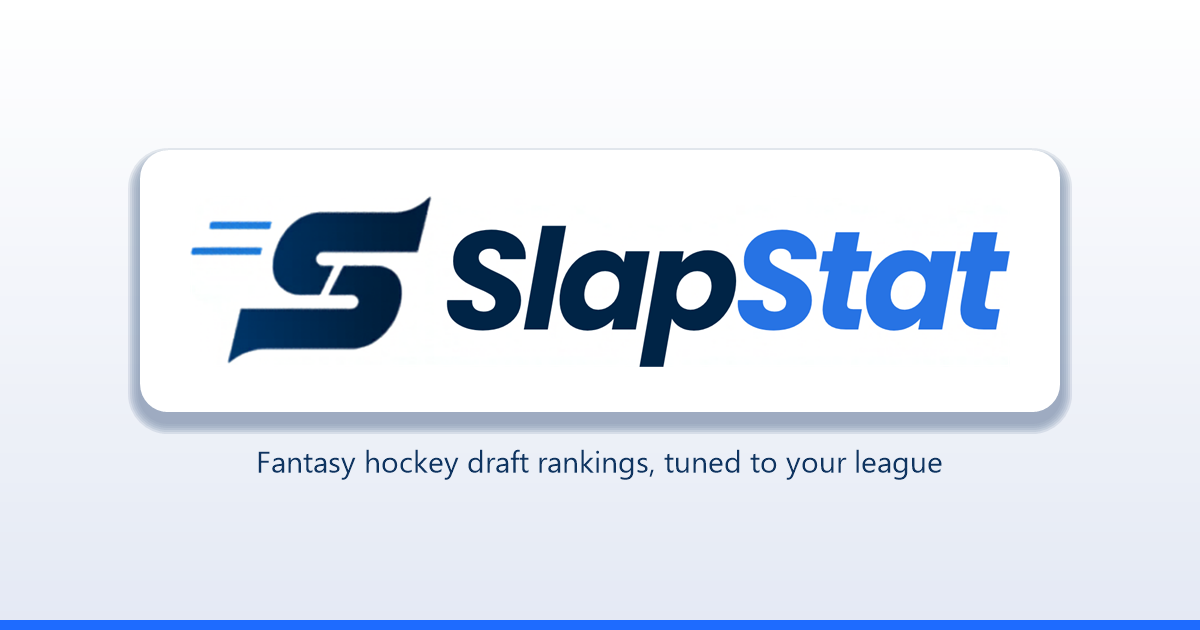
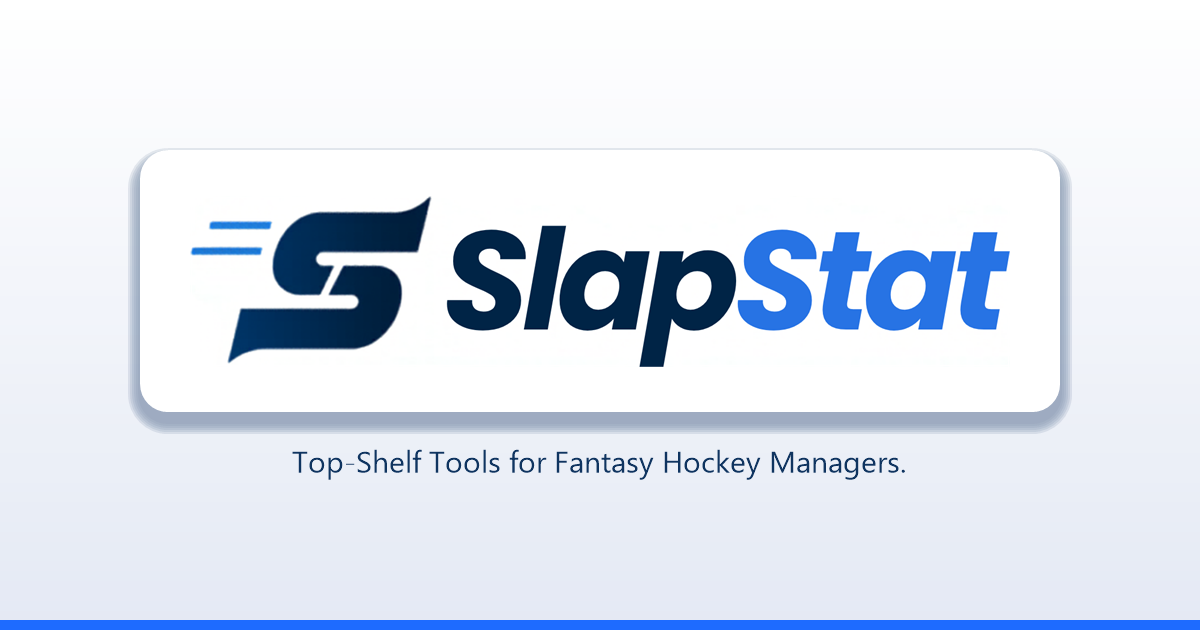
feat: adopt "Top-Shelf Tools for Fantasy Hockey Managers" as the slogan
Broaden the positioning away from draft-only. The site is a general
fantasy hockey tool, not just draft rankings, so:
- landing footer slogan: "Fantasy Hockey, done right." -> the new slogan.
- index.html title + meta description + OG/Twitter copy: general
  "top-shelf tools ... rankings and projections tuned to your league's
  scoring settings", no longer draft-specific.
- og-image.png: regenerated with the new tagline.

Changed region(s): [[0.2158, 0.6937, 0.8017, 0.754]]

diff --git a/src/index.html b/src/index.html
@@ -2,14 +2,14 @@
 <html lang="en">
   <head>
     <meta charset="utf-8" />
-    <title>SlapStat - Fantasy Hockey Draft Rankings</title>
+    <title>SlapStat - Top-Shelf Tools for Fantasy Hockey Managers</title>
     <base href="/" />
     <meta name="viewport" content="width=device-width, initial-scale=1" />
     <meta name="theme-color" content="#0F3460" />
 
     <meta
       name="description"
-      content="SlapStat ranks NHL players for your fantasy hockey draft based on your league's scoring settings. Connect your Yahoo league and draft smarter."
+      content="Top-shelf tools for fantasy hockey managers: rankings and projections tuned to your league's scoring settings. Connect your Yahoo league and play smarter."
     />
     <link rel="canonical" href="https://slapstat.com/" />
 
@@ -17,22 +17,25 @@
     <meta property="og:type" content="website" />
     <meta property="og:site_name" content="SlapStat" />
     <meta property="og:url" content="https://slapstat.com/" />
-    <meta property="og:title" content="SlapStat - Fantasy Hockey Draft Rankings" />
+    <meta property="og:title" content="SlapStat - Top-Shelf Tools for Fantasy Hockey Managers" />
     <meta
       property="og:description"
-      content="Rank NHL players for your fantasy hockey draft based on your league's scoring settings. Connect your Yahoo league and draft smarter."
+      content="Top-shelf tools for fantasy hockey managers: rankings and projections tuned to your league's scoring settings. Connect your Yahoo league and play smarter."
     />
     <meta property="og:image" content="https://slapstat.com/og-image.png" />
     <meta property="og:image:width" content="1200" />
     <meta property="og:image:height" content="630" />
-    <meta property="og:image:alt" content="SlapStat - fantasy hockey draft rankings" />
+    <meta
+      property="og:image:alt"
+      content="SlapStat - top-shelf tools for fantasy hockey managers"
+    />
 
     <!-- Twitter / X -->
     <meta name="twitter:card" content="summary_large_image" />
-    <meta name="twitter:title" content="SlapStat - Fantasy Hockey Draft Rankings" />
+    <meta name="twitter:title" content="SlapStat - Top-Shelf Tools for Fantasy Hockey Managers" />
     <meta
       name="twitter:description"
-      content="Rank NHL players for your fantasy hockey draft based on your league's scoring settings. Connect your Yahoo league and draft smarter."
+      content="Top-shelf tools for fantasy hockey managers: rankings and projections tuned to your league's scoring settings. Connect your Yahoo league and play smarter."
     />
     <meta name="twitter:image" content="https://slapstat.com/og-image.png" />
     <link rel="preconnect" href="https://fonts.googleapis.com" />

diff --git a/src/app/landing/landing.html b/src/app/landing/landing.html
@@ -57,7 +57,9 @@
   <footer class="lp-footer">
     <div class="lp-container lp-footer-inner">
       <img src="slapstat-logo.png" alt="SlapStat" class="lp-footer-logo" />
-      <span class="lp-footer-copy">© 2026 SlapStat · Fantasy Hockey, done right.</span>
+      <span class="lp-footer-copy"
+        >© 2026 SlapStat · Top-Shelf Tools for Fantasy Hockey Managers.</span
+      >
       <span class="lp-footer-links">
         <a routerLink="/privacy">Privacy</a>
         <a routerLink="/login">Sign in</a>
